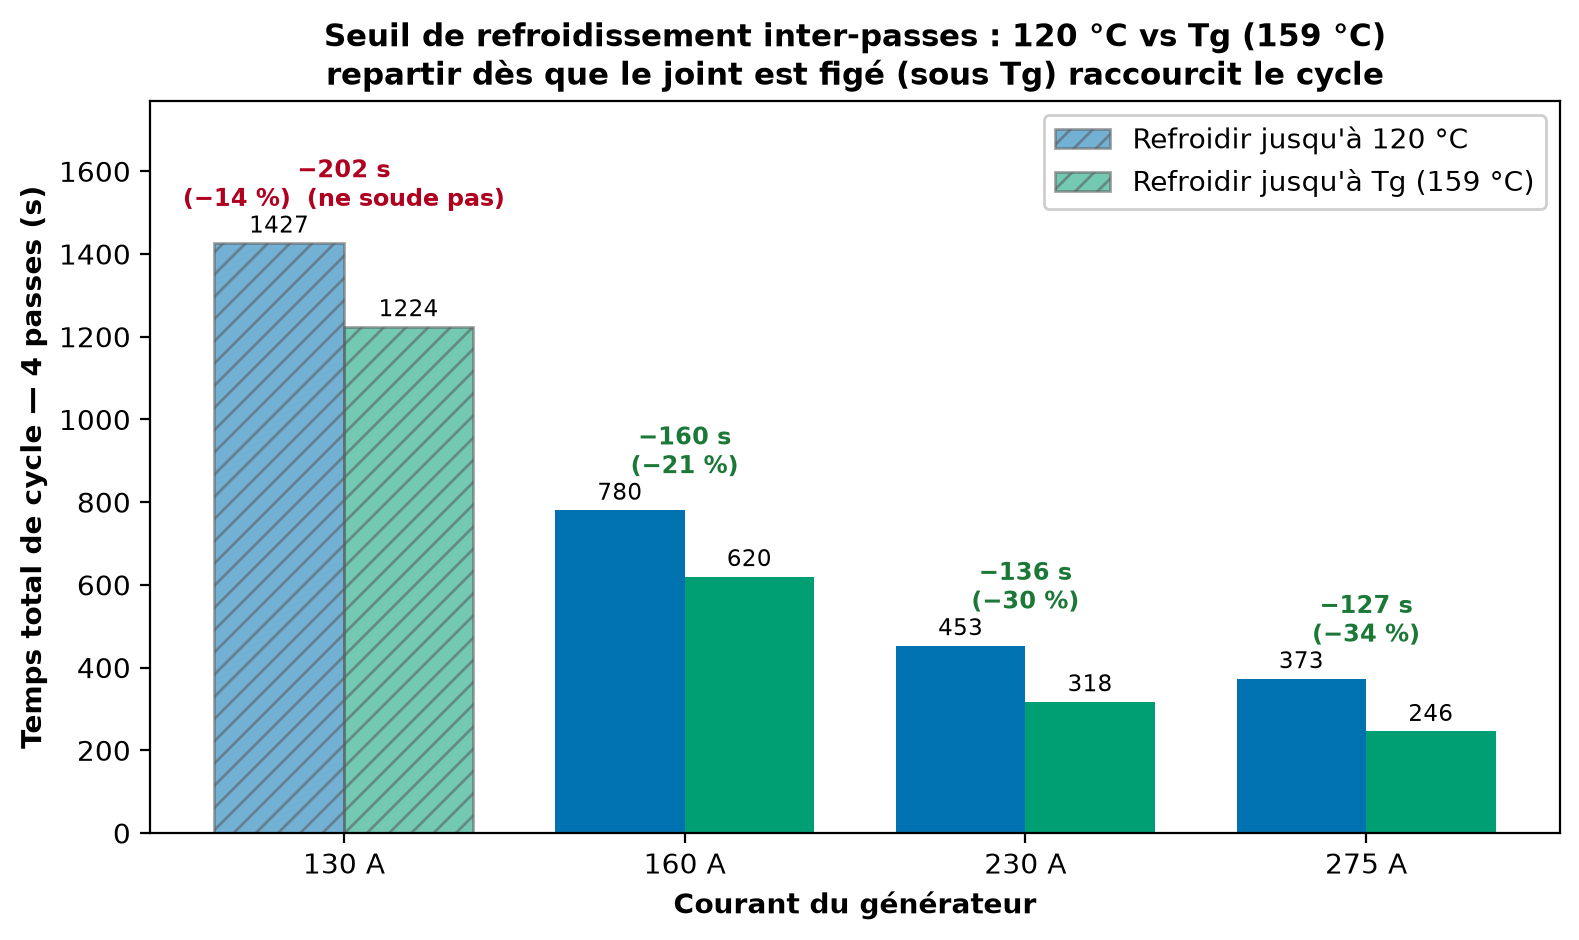
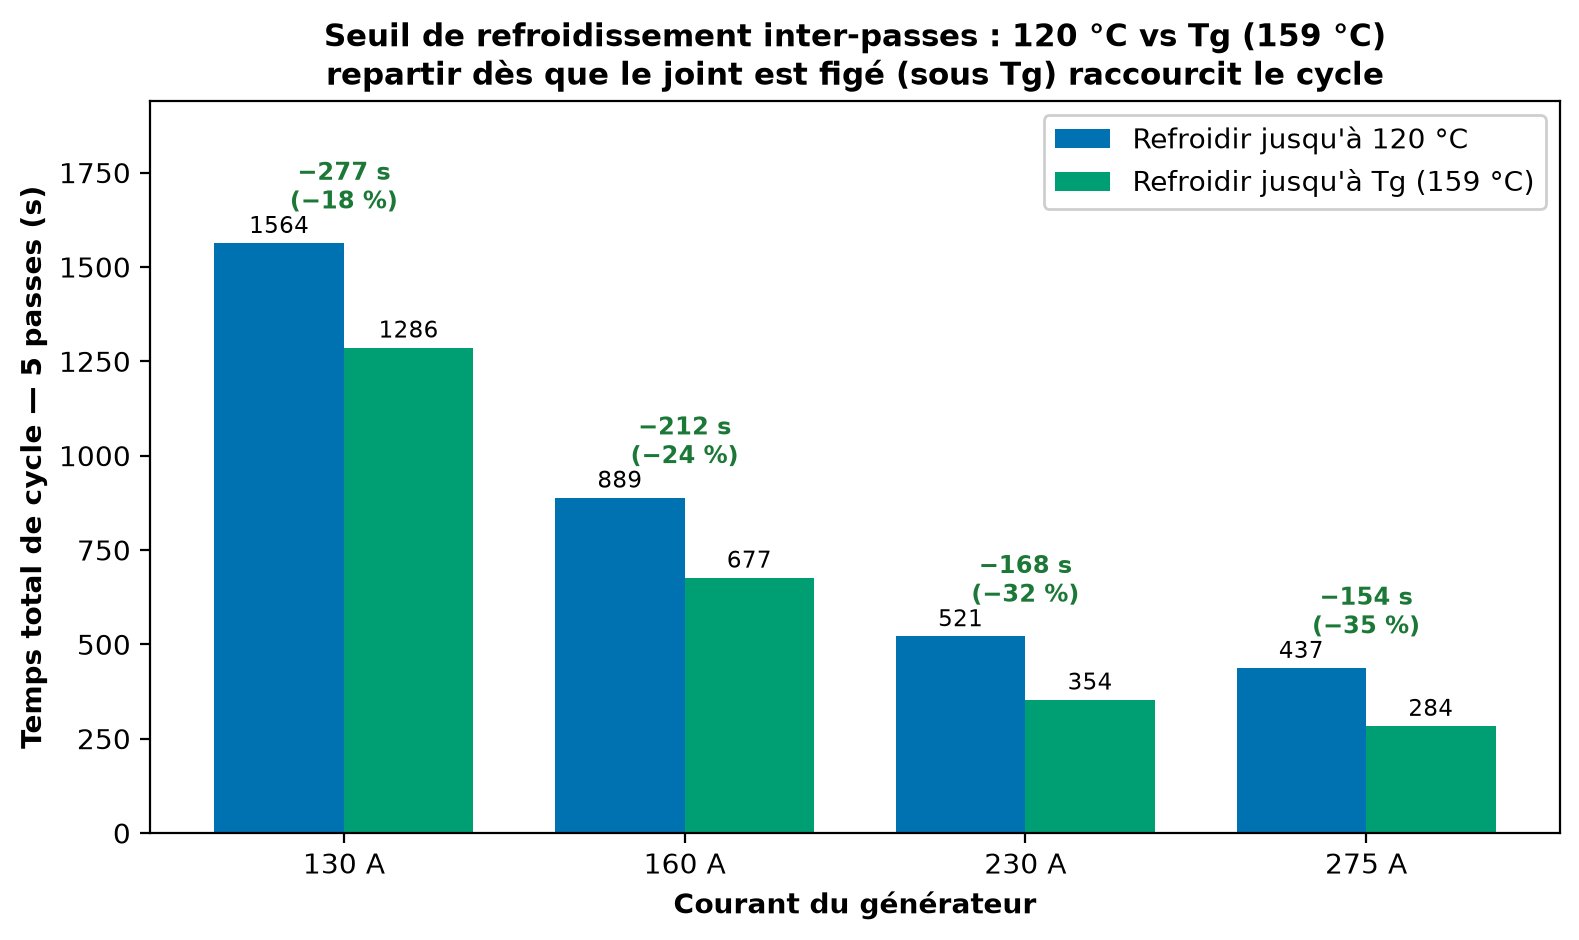
chore(figures): comparaison de seuil recalculee sur le cycle 5 passes
120C vs Tg (159C) sur le nouveau cycle a 5 spots : gain 18-35%. 130A soude
desormais (lentement). Coherent avec les figures 5 passes.

Claude-Session: https://claude.ai/code/session_01QZzipzAgTptsrd6bPwoLWd

diff --git a/code/scripts/gen/gen_cycle_parfait_comparaison_seuil.py b/code/scripts/gen/gen_cycle_parfait_comparaison_seuil.py
@@ -2,13 +2,12 @@
 """Comparaison du seuil de refroidissement inter-passes : 120 °C vs Tg (159 °C).
 
 Gagner du temps procédé en repartant dès que le joint est figé (sous Tg du PEKK,
-159 °C) au lieu d'attendre 120 °C. Temps total de cycle (4 passes, chauffe+refroid)
+159 °C) au lieu d'attendre 120 °C. Temps total de cycle (5 passes, chauffe+refroid)
 par courant, pour les deux critères, avec le gain.
 
-Données = gen_cycle_parfait_semistatique.py (modèle 2D, θ*), campagne 2026-08-25 :
-  - 120 °C : run par défaut (déjà commité) ;
-  - 159 °C : SEUIL_REFROID=159 (juste sous Tg).
-130 A NE SOUDE PAS dans les deux cas (P1 n'atteint jamais 390 °C).
+Données = gen_cycle_parfait_semistatique.py (modèle 2D, θ*, 5 spots), campagne 2026-08-25 :
+  - Tg 159 °C : run par défaut ;  - 120 °C : SEUIL_REFROID=120.
+130 A soude mais très lentement (~21–26 min) — courant marginal.
 
 Sortie : biblio/labo/figures/fig_cycle_parfait_comparaison_seuil.png
 """
@@ -26,10 +25,10 @@ apply_style(**{"savefig.dpi": 200, "figure.dpi": 200})
 
 # temps total de cycle (s) : {courant: (seuil_120, seuil_159, soude)}
 TOTAL = {
-    130: (1426.6, 1224.4, False),
-    160: (780.5,  620.1,  True),
-    230: (453.0,  317.5,  True),
-    275: (373.1,  245.7,  True),
+    130: (1563.5, 1286.4, True),   # soude mais très lentement (~21–26 min)
+    160: (888.7,  676.7,  True),
+    230: (521.4,  353.5,  True),
+    275: (437.4,  283.9,  True),
 }
 C_120, C_TG = "#0072B2", "#009E73"  # Okabe-Ito : 120 °C (bleu) / Tg 159 °C (vert)
 
@@ -62,7 +61,7 @@ for k, i in enumerate(courants):
 
 ax.set_xticks(x)
 ax.set_xticklabels([f"{i} A" for i in courants])
-ax.set_ylabel("Temps total de cycle — 4 passes (s)")
+ax.set_ylabel("Temps total de cycle — 5 passes (s)")
 ax.set_xlabel("Courant du générateur")
 ax.set_ylim(0, t120.max() * 1.24)
 ax.set_title("Seuil de refroidissement inter-passes : 120 °C vs Tg (159 °C)\n"
